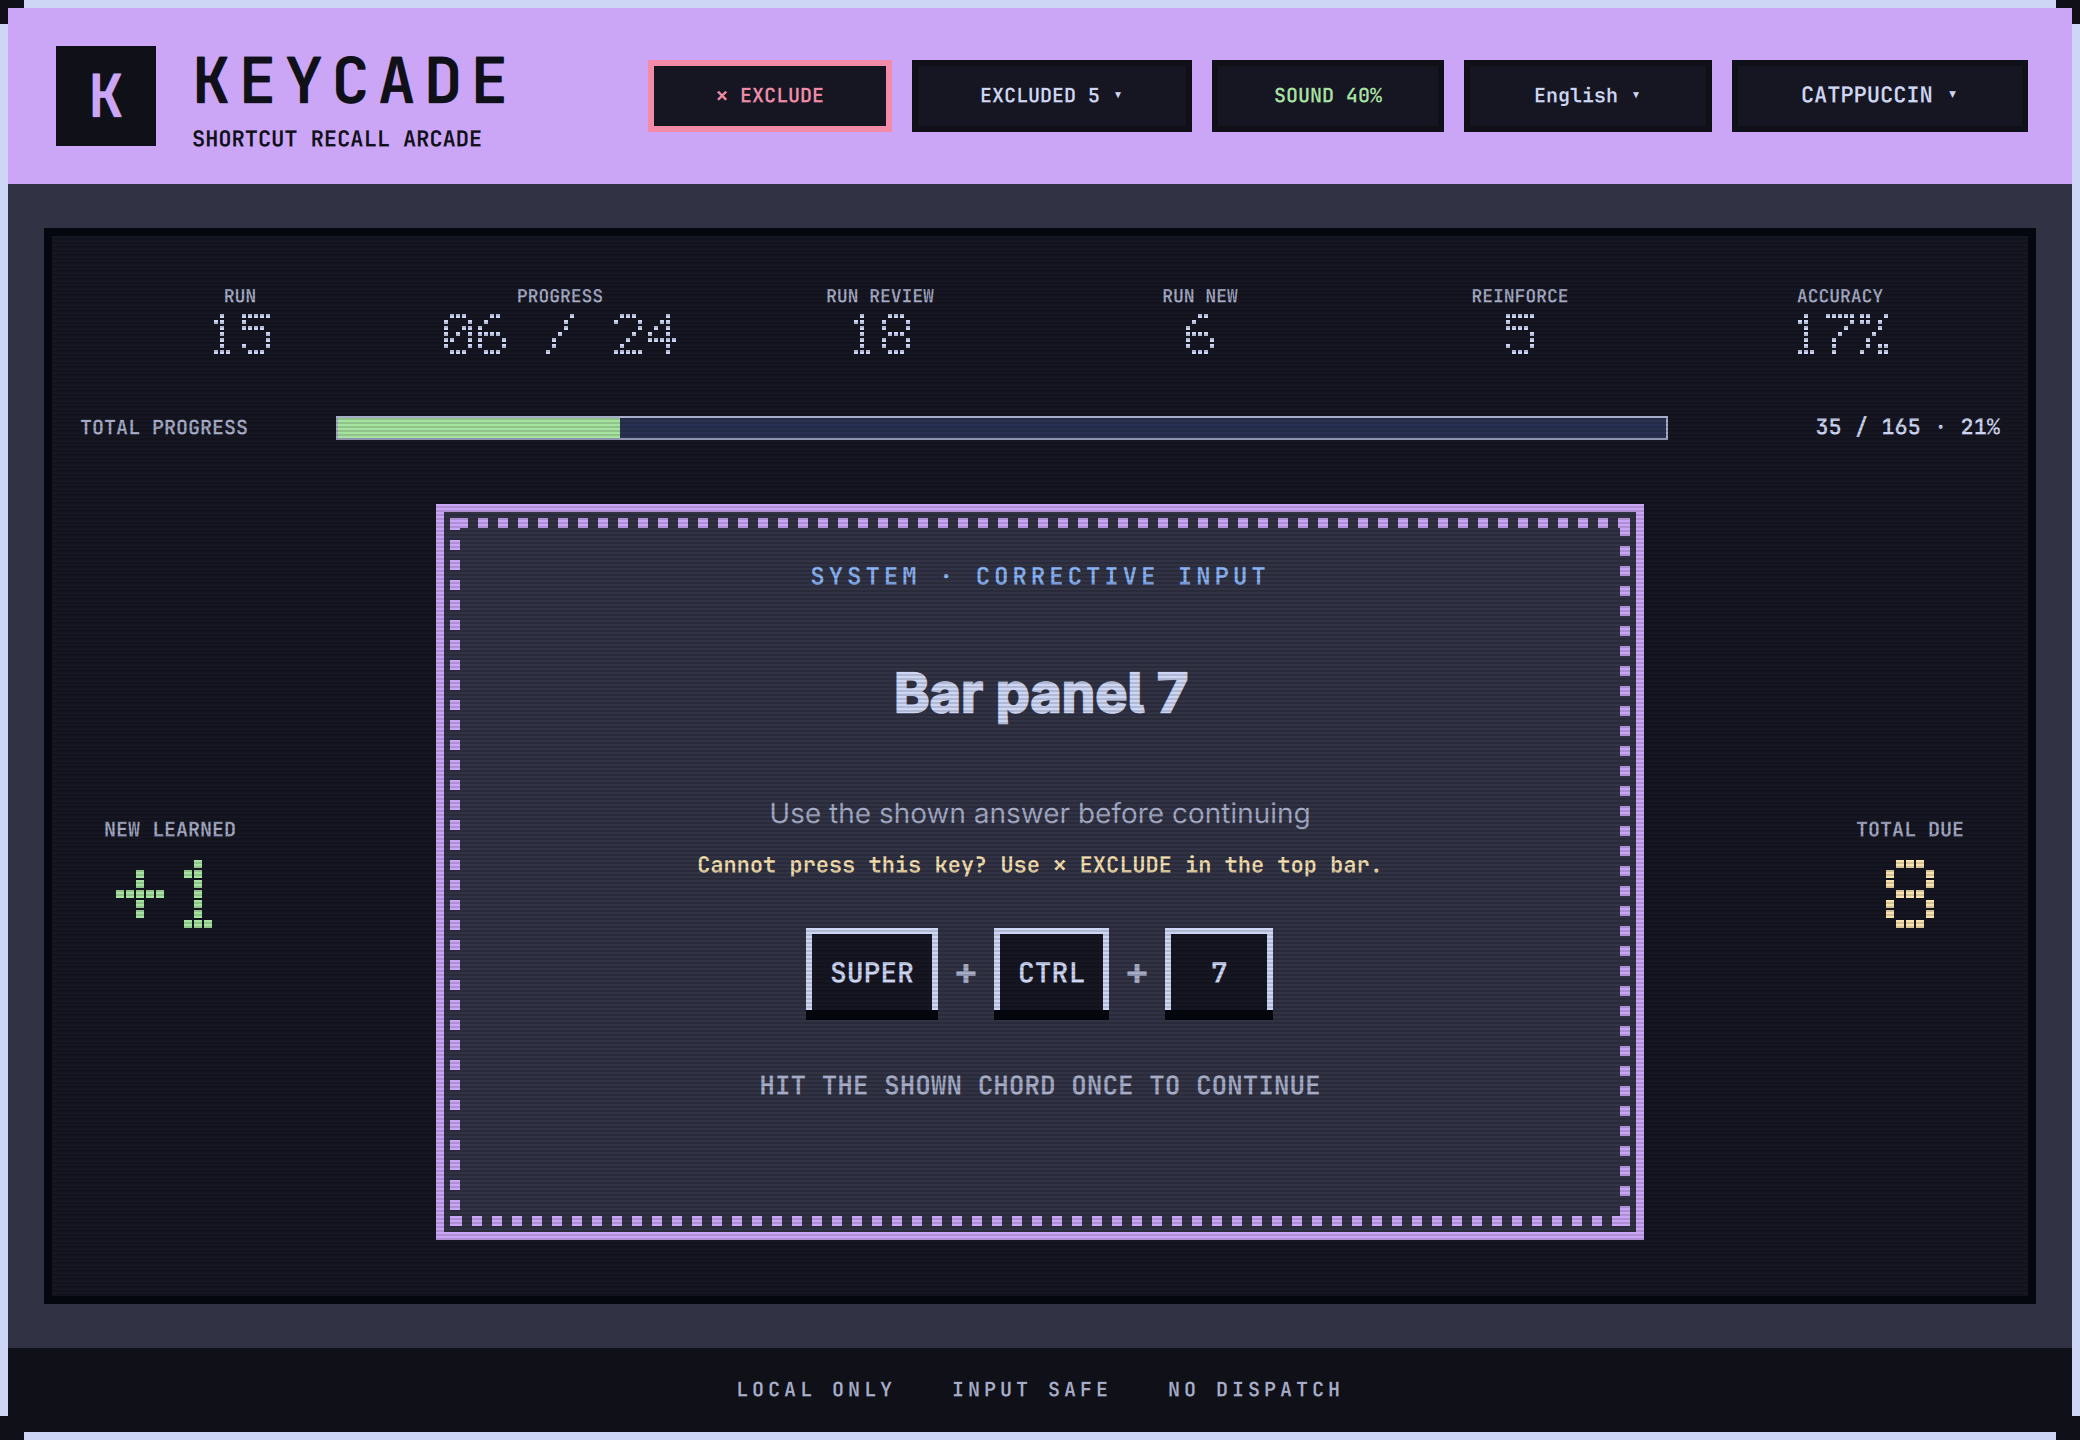
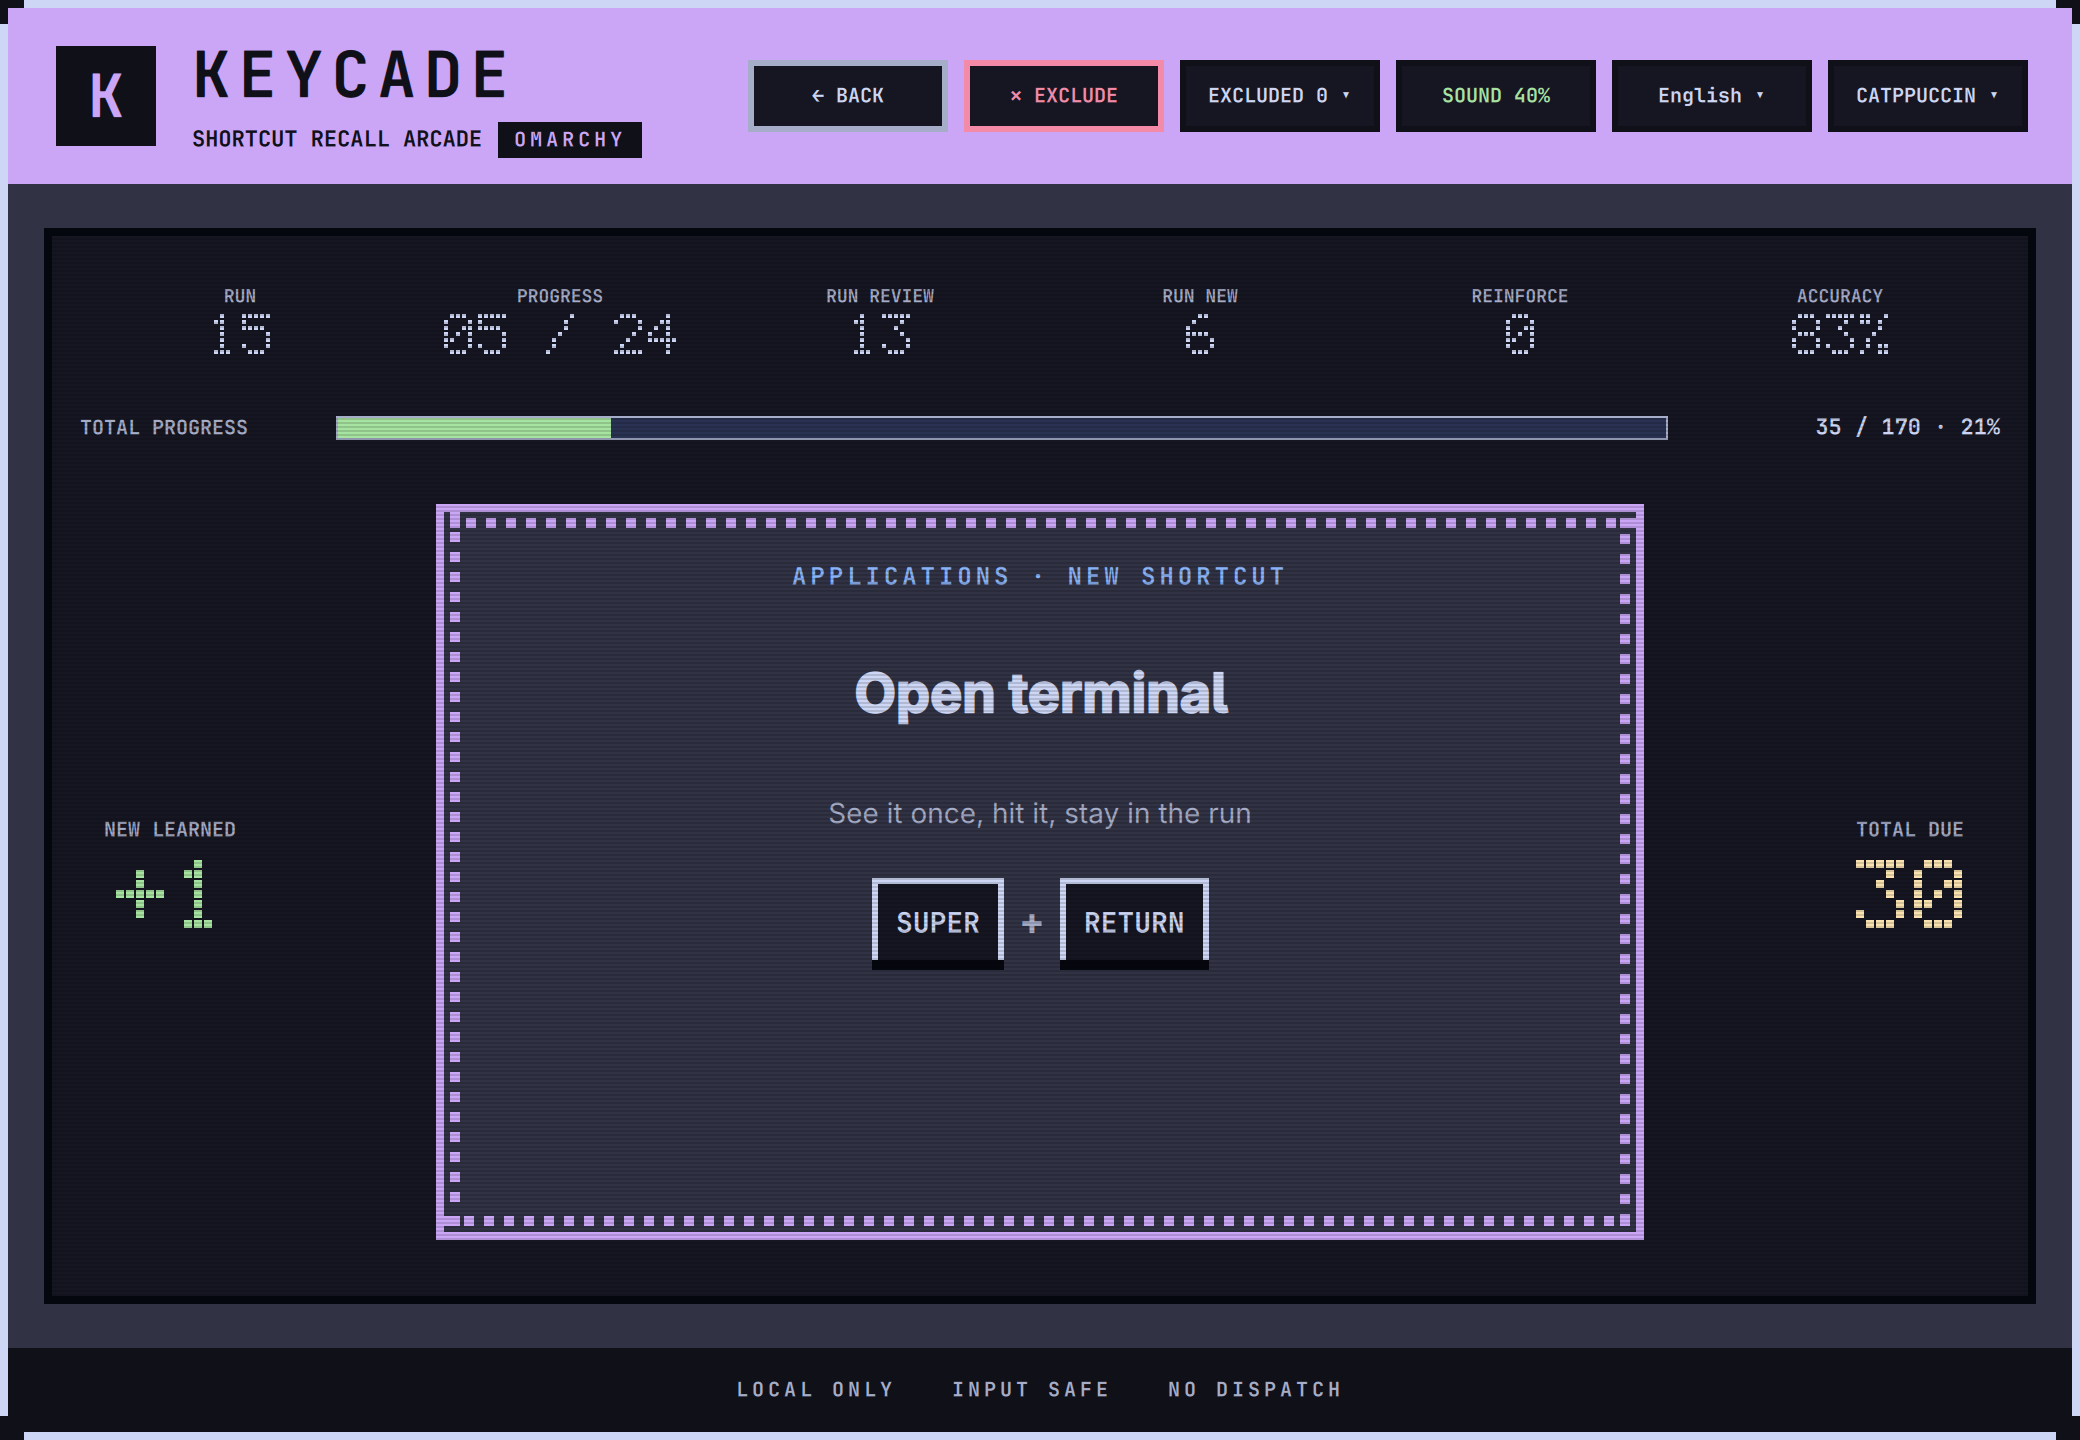
docs: reshoot the screenshots, and make reshooting reproducible
The listing preview and both READMEs still showed a top bar with no
cabinet badge, no back button and the old assorted button widths - the
interface as it was before six grounds existed.

New images, one palette each so the row doubles as the palette gallery:
the preview is Gruvbox, the README's opening pair stays Catppuccin, the
home screen with all six cabinets and their numbers is Tokyo Night, a
LazyVim leader sequence is Everforest and a Vim composition is
Ristretto. The two mastery images are untouched and still show the old
bar; they need the celebration screen, which is a separate shot.

tools/shoot-screenshots takes all nine. It drives the overlay rather
than playing it - the card is built by hand and the input guard is never
activated - so a capture cannot take the keyboard from whoever runs it,
which is the reason this was never scripted before. It reads the
maintainer's real statistics, so the numbers on screen are real, under a
temporary XDG_STATE_HOME so the actual save file is never touched. The
crop is the cabinet's own 1040x720 logical frame, centred, which is what
every earlier screenshot already was.

Claude-Session: https://claude.ai/code/session_01VbAiT8NYHHe9byNP1p3LWe

diff --git a/tools/screenshot-shell.qml b/tools/screenshot-shell.qml
@@ -1,0 +1,87 @@
+import QtQuick
+import Quickshell
+import "keycade" as Keycade
+
+ShellRoot {
+  Keycade.Keycade { id: overlay }
+
+  readonly property string wantTheme: Quickshell.env("SHOT_THEME") || "gruvbox"
+  readonly property string wantLocale: Quickshell.env("SHOT_LOCALE") || "en"
+  readonly property string wantGround: Quickshell.env("SHOT_GROUND") || "hyprland"
+  readonly property string wantBinding: Quickshell.env("SHOT_BINDING") || ""
+  readonly property string wantView: Quickshell.env("SHOT_VIEW") || "playing"
+
+  property int tries: 0
+
+  // selectProfile refuses until the store has loaded, so asking repeatedly is
+  // the wait: the first call that takes is the one that had settings.
+  Timer {
+    id: boot; interval: 300; running: true; repeat: true
+    onTriggered: {
+      tries += 1
+      if (tries > 80) { console.log("SHOT_FAILED store never loaded"); Qt.quit(); return }
+      overlay.selectProfile(wantGround)
+      if (overlay.profileId !== wantGround) return
+      running = false
+      overlay.selectLocale(wantLocale)
+      overlay.selectTheme(wantTheme)
+      settle.start()
+    }
+  }
+
+  Timer {
+    id: settle; interval: 300; repeat: true
+    onTriggered: {
+      tries += 1
+      if (tries > 160) { console.log("SHOT_FAILED ground never loaded"); Qt.quit(); return }
+      if (overlay.groundLoading || !overlay.eligibleBindings.length) return
+      running = false
+      compose()
+      show.start()
+    }
+  }
+
+  // A guided card - the tier that shows the sequence, which is the one worth
+  // photographing - built by hand rather than played, so the capture never
+  // activates the input guard. An overlay that took the keyboard would take it
+  // from whoever is running this.
+  function compose() {
+    overlay.selectTheme(wantTheme)
+    if (wantView === "home") {
+      overlay.view = "home"
+      overlay.opened = true
+      console.log("SHOT_CARD home " + overlay.profileId)
+      return
+    }
+    var bindings = overlay.eligibleBindings
+    var chosen = bindings[0]
+    for (var index = 0; index < bindings.length; index++) {
+      var item = bindings[index]
+      var name = String(overlay.actionName(item) || "")
+      if (wantBinding && (String(item.localId) === wantBinding
+                          || name.toLowerCase().indexOf(wantBinding.toLowerCase()) !== -1)) {
+        chosen = item
+        break
+      }
+    }
+    overlay.deck = [{ binding: chosen, tier: "guided", queue: "unseen", remedial: false }]
+    overlay.cardIndex = 0
+    overlay.runNumber = Number(Quickshell.env("SHOT_RUN") || 15)
+    overlay.runOffset = Number(Quickshell.env("SHOT_OFFSET") || 5)
+    overlay.runReviewTarget = 13
+    overlay.runNewTarget = 6
+    overlay.correct = 5
+    overlay.attempts = 6
+    overlay.newLearned = 1
+    overlay.revealChord = true
+    overlay.answerStep = 0
+    overlay.view = "playing"
+    overlay.opened = true
+    console.log("SHOT_CARD " + chosen.localId + " | " + overlay.answerDisplay(chosen))
+  }
+
+  Timer { id: show; interval: 1100; repeat: false
+    onTriggered: { console.log("SHOT_READY"); hold.start() } }
+  Timer { id: hold; interval: 8000; repeat: false
+    onTriggered: { overlay.opened = false; Qt.quit() } }
+}

diff --git a/README.zh-CN.md b/README.zh-CN.md
@@ -25,6 +25,17 @@ Keycade 是一个原生 Omarchy 覆盖层，把快捷键编成简短的自适应
 
 新装和升级后都停在 Hyprland；其他训练场想练的时候再选。
 
+每个机台都显示自己的进度，一排看下来就是一张完整的进度图。Tokyo Night 配色：
+
+![首页上每个机台各自的进度](docs/screenshots/keycade-grounds-zh-CN.png)
+
+六个机台里有四个要连打，卡片按步显示。Everforest 配色下的 LazyVim，
+以及 Ristretto 配色下的 Vim 原生语法：
+
+![LazyVim 的 leader 连打](docs/screenshots/keycade-lazyvim-zh-CN.png)
+
+![Vim 的组合语法](docs/screenshots/keycade-vim-zh-CN.png)
+
 ## 核心功能
 
 - 六个机台里有三个直接读这台机器，而不是发一套通用题库：Hyprland 读运行中的合成器，

diff --git a/README.md b/README.md
@@ -28,6 +28,18 @@ and the row shows where every one of them stands:
 Hyprland is what you get on a fresh install and after an upgrade; the other
 grounds are there when you want them.
 
+Every cabinet shows where it stands, so the row reads as one picture of your
+progress. Tokyo Night:
+
+![Every cabinet's progress on the home screen](docs/screenshots/keycade-grounds-en.png)
+
+Four of the six answer in sequences, drawn step by step. LazyVim on Everforest,
+and Vim's own grammar on Ristretto:
+
+![A LazyVim leader sequence](docs/screenshots/keycade-lazyvim-en.png)
+
+![A Vim composition](docs/screenshots/keycade-vim-en.png)
+
 ## Core features
 
 - Reads three of its six cabinets off this machine rather than dealing a
